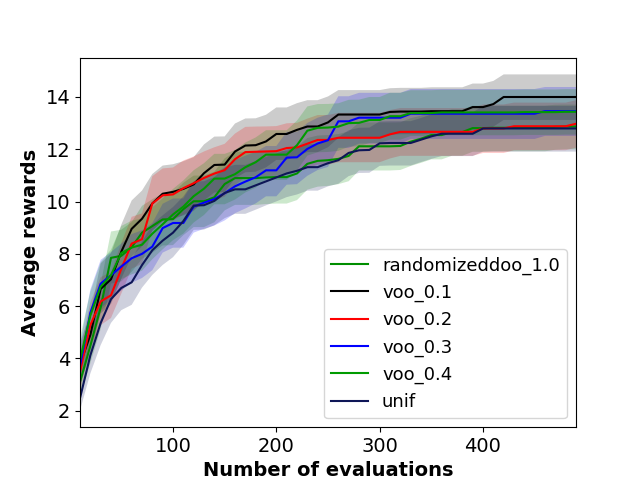
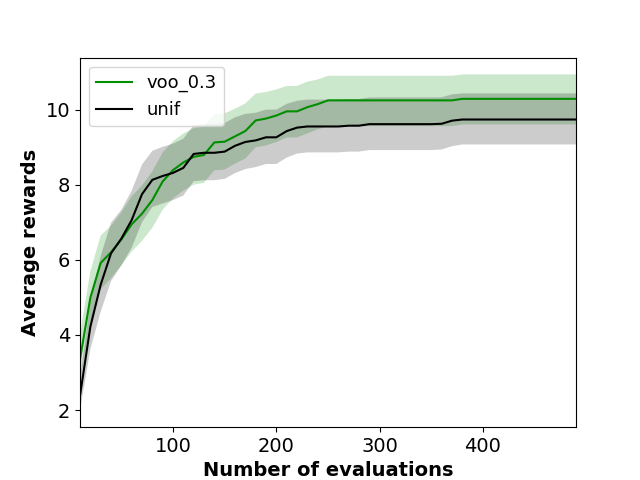
15 objects

diff --git a/plotters/plot_planners.py b/plotters/plot_planners.py
@@ -182,7 +182,7 @@ def plot_across_algorithms():
     widening_parameter = args.w
 
     if args.domain == 'namo':
-        algo_names = ['randomizeddoo_1.0','voo_0.1','voo_0.2','voo_0.3','voo_0.4', 'unif']
+        algo_names = ['voo_0.3', 'unif']
     else:
         algo_names = ['randomizeddoo_1.0', 'doo_25.0', 'voo_0.3', 'unif']
 

diff --git a/problem_environments/NAMO_problem.py b/problem_environments/NAMO_problem.py
@@ -34,7 +34,7 @@ SLEEPTIME = 0.05
 
 
 def create_objects(env, obj_region, table_region):
-    NUM_OBJECTS = 10
+    NUM_OBJECTS = 15
     OBJECTS = []
     obj_shapes = {}
     obj_poses = {}
